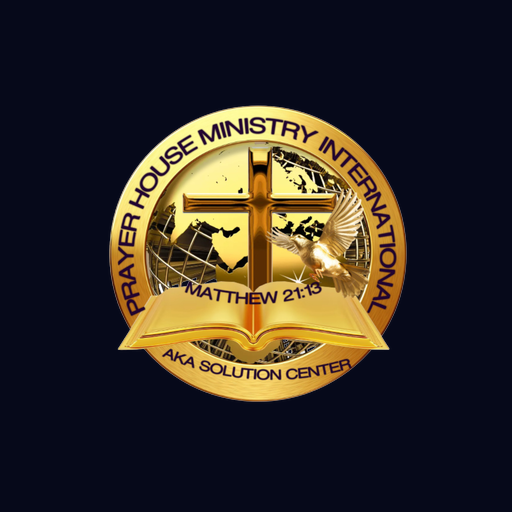
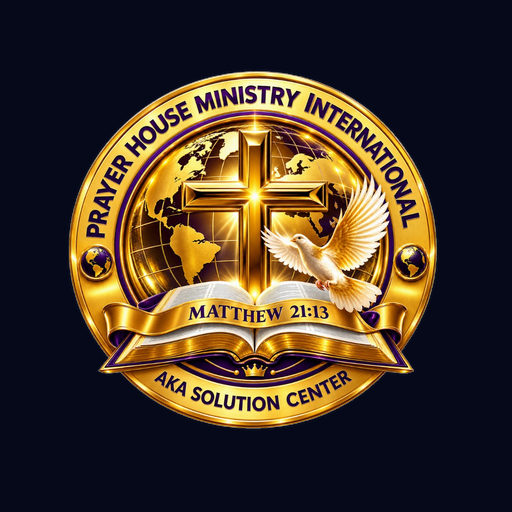
Update brand assets and finalize bank giving details.
Replace the logo with a transparent PNG and regenerate favicon, PWA icons, and OG image so the new seal displays cleanly across the site.

diff --git a/components/ui/BankGiveCard.tsx b/components/ui/BankGiveCard.tsx
@@ -2,22 +2,14 @@
 
 import { useState } from 'react'
 import { Building2, Check, Copy } from 'lucide-react'
-import {
-  BANK_ACCOUNT_NAME,
-  BANK_ACCOUNT_NOTE,
-  BANK_ACCOUNT_NUMBER,
-  BANK_NAME,
-} from '@/lib/giving'
+import { BANK_ACCOUNT_NUMBER, BANK_NAME } from '@/lib/giving'
 
 export default function BankGiveCard() {
   const [copied, setCopied] = useState(false)
-  const isPlaceholder = BANK_ACCOUNT_NUMBER.includes('X')
 
   const copyAccount = async () => {
     try {
-      await navigator.clipboard.writeText(
-        `${BANK_NAME}\n${BANK_ACCOUNT_NAME}\n${BANK_ACCOUNT_NUMBER}`
-      )
+      await navigator.clipboard.writeText(`${BANK_NAME}\n${BANK_ACCOUNT_NUMBER}`)
       setCopied(true)
       window.setTimeout(() => setCopied(false), 2000)
     } catch {
@@ -42,20 +34,9 @@ export default function BankGiveCard() {
           <dl className="space-y-2">
             <div>
               <dt className="font-montserrat text-[10px] uppercase tracking-wider text-muted-foreground">
-                Account name
-              </dt>
-              <dd className="font-inter text-sm text-foreground">{BANK_ACCOUNT_NAME}</dd>
-            </div>
-            <div>
-              <dt className="font-montserrat text-[10px] uppercase tracking-wider text-muted-foreground">
                 Account number
               </dt>
               <dd className="font-cinzel text-xl text-gold tracking-widest">{BANK_ACCOUNT_NUMBER}</dd>
-              {isPlaceholder && (
-                <p className="font-inter text-[11px] text-muted-foreground/70 mt-1">
-                  {BANK_ACCOUNT_NOTE}
-                </p>
-              )}
             </div>
           </dl>
         </div>

diff --git a/lib/giving.ts b/lib/giving.ts
@@ -1,14 +1,12 @@
-export const MOMO_NETWORK = 'MTN MoMo'
+export const MOMO_NETWORK = 'MTN MoMo'
 export const MOMO_NUMBER = '653270752'
 export const MOMO_DISPLAY = '653 270 752'
 
 export const BANK_NAME = 'FINASDDEE CREDIT LINE CAMEROON S. A'
-export const BANK_ACCOUNT_NAME = 'Prayer House Ministry International'
-export const BANK_ACCOUNT_NUMBER = 'XXXXXXXXXXXX'
-export const BANK_ACCOUNT_NOTE = 'Account number to be confirmed'
+export const BANK_ACCOUNT_NUMBER = '3003017620131'
 
 export const MOMO_WHATSAPP_MESSAGE =
-  `Hello Solution Center 💛 I would like to give to PHMI.\n\nPlease confirm I can send via ${MOMO_NETWORK}: ${MOMO_NUMBER}`
+  `Hello Solution Center. I would like to give to PHMI.\n\nPlease confirm I can send via ${MOMO_NETWORK}: ${MOMO_NUMBER}`
 
 export const BANK_WHATSAPP_MESSAGE =
-  `Hello Solution Center 💛 I would like to give by bank transfer.\n\nBank: ${BANK_NAME}\nAccount name: ${BANK_ACCOUNT_NAME}\nAccount number: ${BANK_ACCOUNT_NUMBER}\n\nPlease confirm the account details.`
+  `Hello Solution Center. I would like to give by bank transfer.\n\nBank: ${BANK_NAME}\nAccount number: ${BANK_ACCOUNT_NUMBER}\n\nPlease confirm the account details.`

diff --git a/public/sw.js b/public/sw.js
@@ -1,7 +1,7 @@
 // Service Worker — Prayer House Ministry International
 // Caches key assets for offline access
 
-const CACHE_NAME = 'phmi-v4'
+const CACHE_NAME = 'phmi-v5'
 const STATIC_CACHE = 'phmi-static-v4'
 const DYNAMIC_CACHE = 'phmi-dynamic-v4'
 

diff --git a/scripts/generate-brand-images.py b/scripts/generate-brand-images.py
@@ -1,10 +1,12 @@
 from pathlib import Path
+import shutil
 
 from PIL import Image, ImageDraw, ImageFont
 
 ROOT = Path(__file__).resolve().parents[1]
 LOGO_PATH = ROOT / "public" / "images" / "logo.png"
 PUBLIC = ROOT / "public"
+IMAGES = PUBLIC / "images"
 ICONS = PUBLIC / "icons"
 APP = ROOT / "app"
 
@@ -100,5 +102,13 @@ center_text("PRAYER HOUSE MINISTRY INTERNATIONAL", 400, font_title, GOLD)
 center_text("Solution Center  ·  Mile 4 Limbe, Cameroon", 450, font_sub, MUTED)
 center_text("Raising Lives Through Prayer, Worship & The Word", 500, font_tag, CREAM)
 
-og_rgba.convert("RGB").save(PUBLIC / "og-image.jpg", "JPEG", quality=92, optimize=True)
+og_path = PUBLIC / "og-image.jpg"
+og_rgba.convert("RGB").save(og_path, "JPEG", quality=92, optimize=True)
+
+# Site metadata and manifest reference /images/* paths
+IMAGES.mkdir(parents=True, exist_ok=True)
+square_icon(192, 0.16).save(IMAGES / "icon-192.png", "PNG")
+favicon_src.save(IMAGES / "favicon.ico", format="ICO", sizes=[(16, 16), (32, 32), (48, 48)])
+shutil.copy2(og_path, IMAGES / "og-image.jpg")
+
 print("Generated favicon, PWA icons, apple icons, and og-image.jpg")
